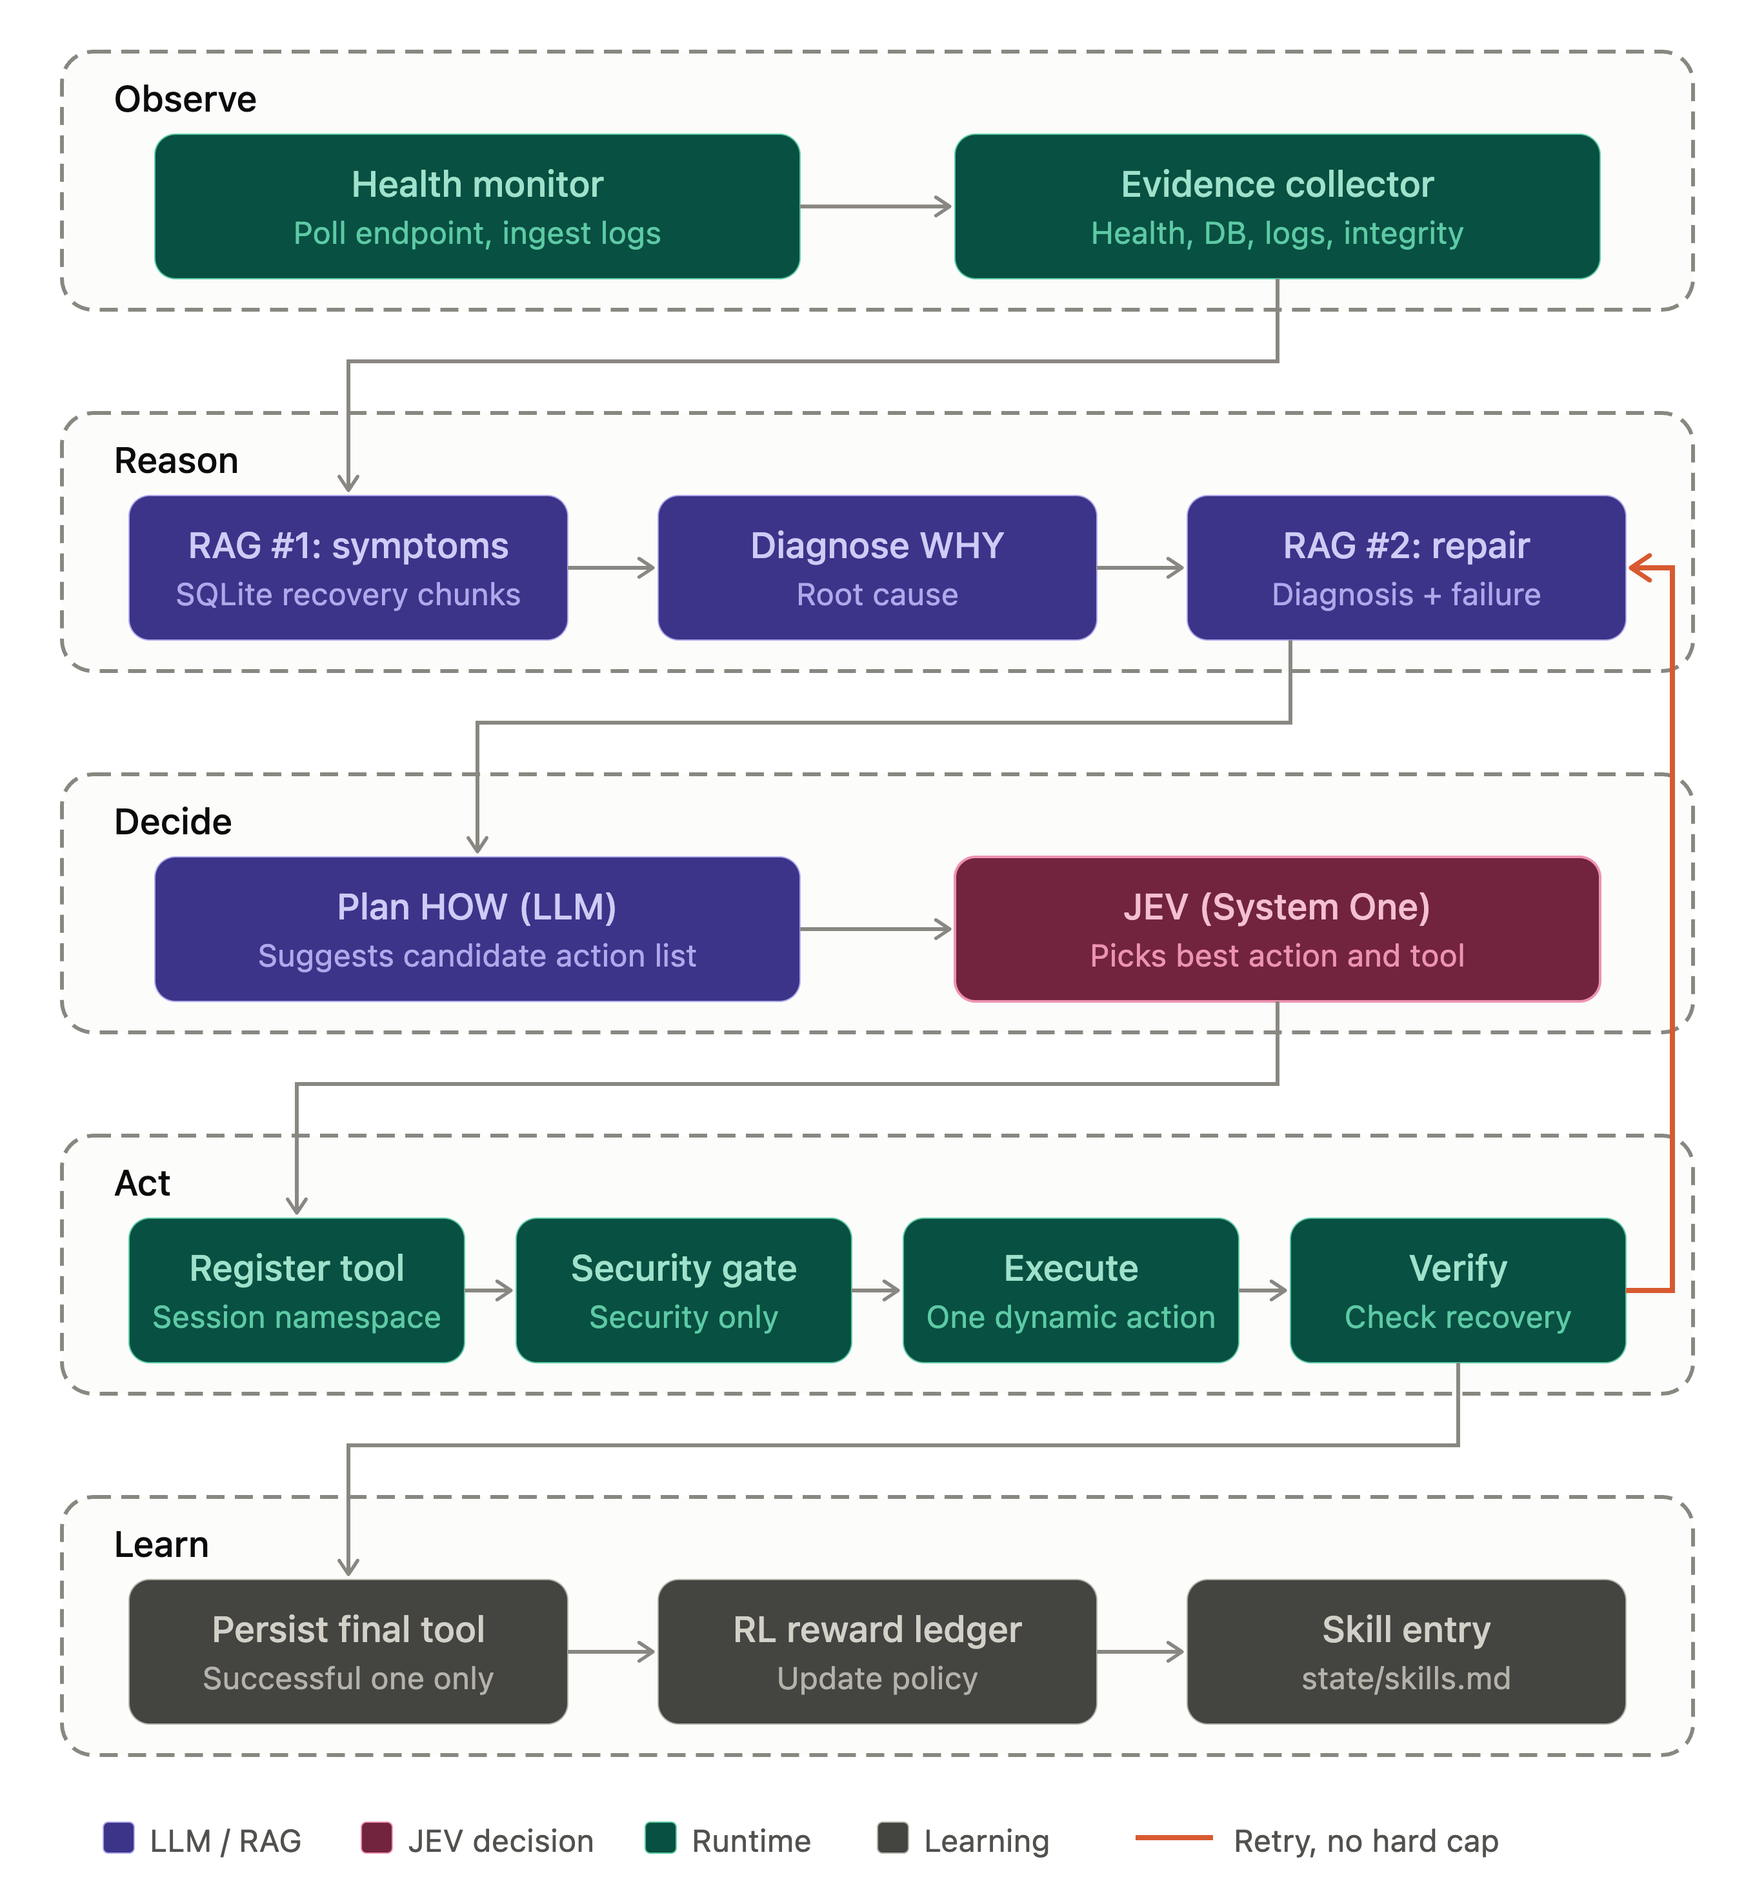
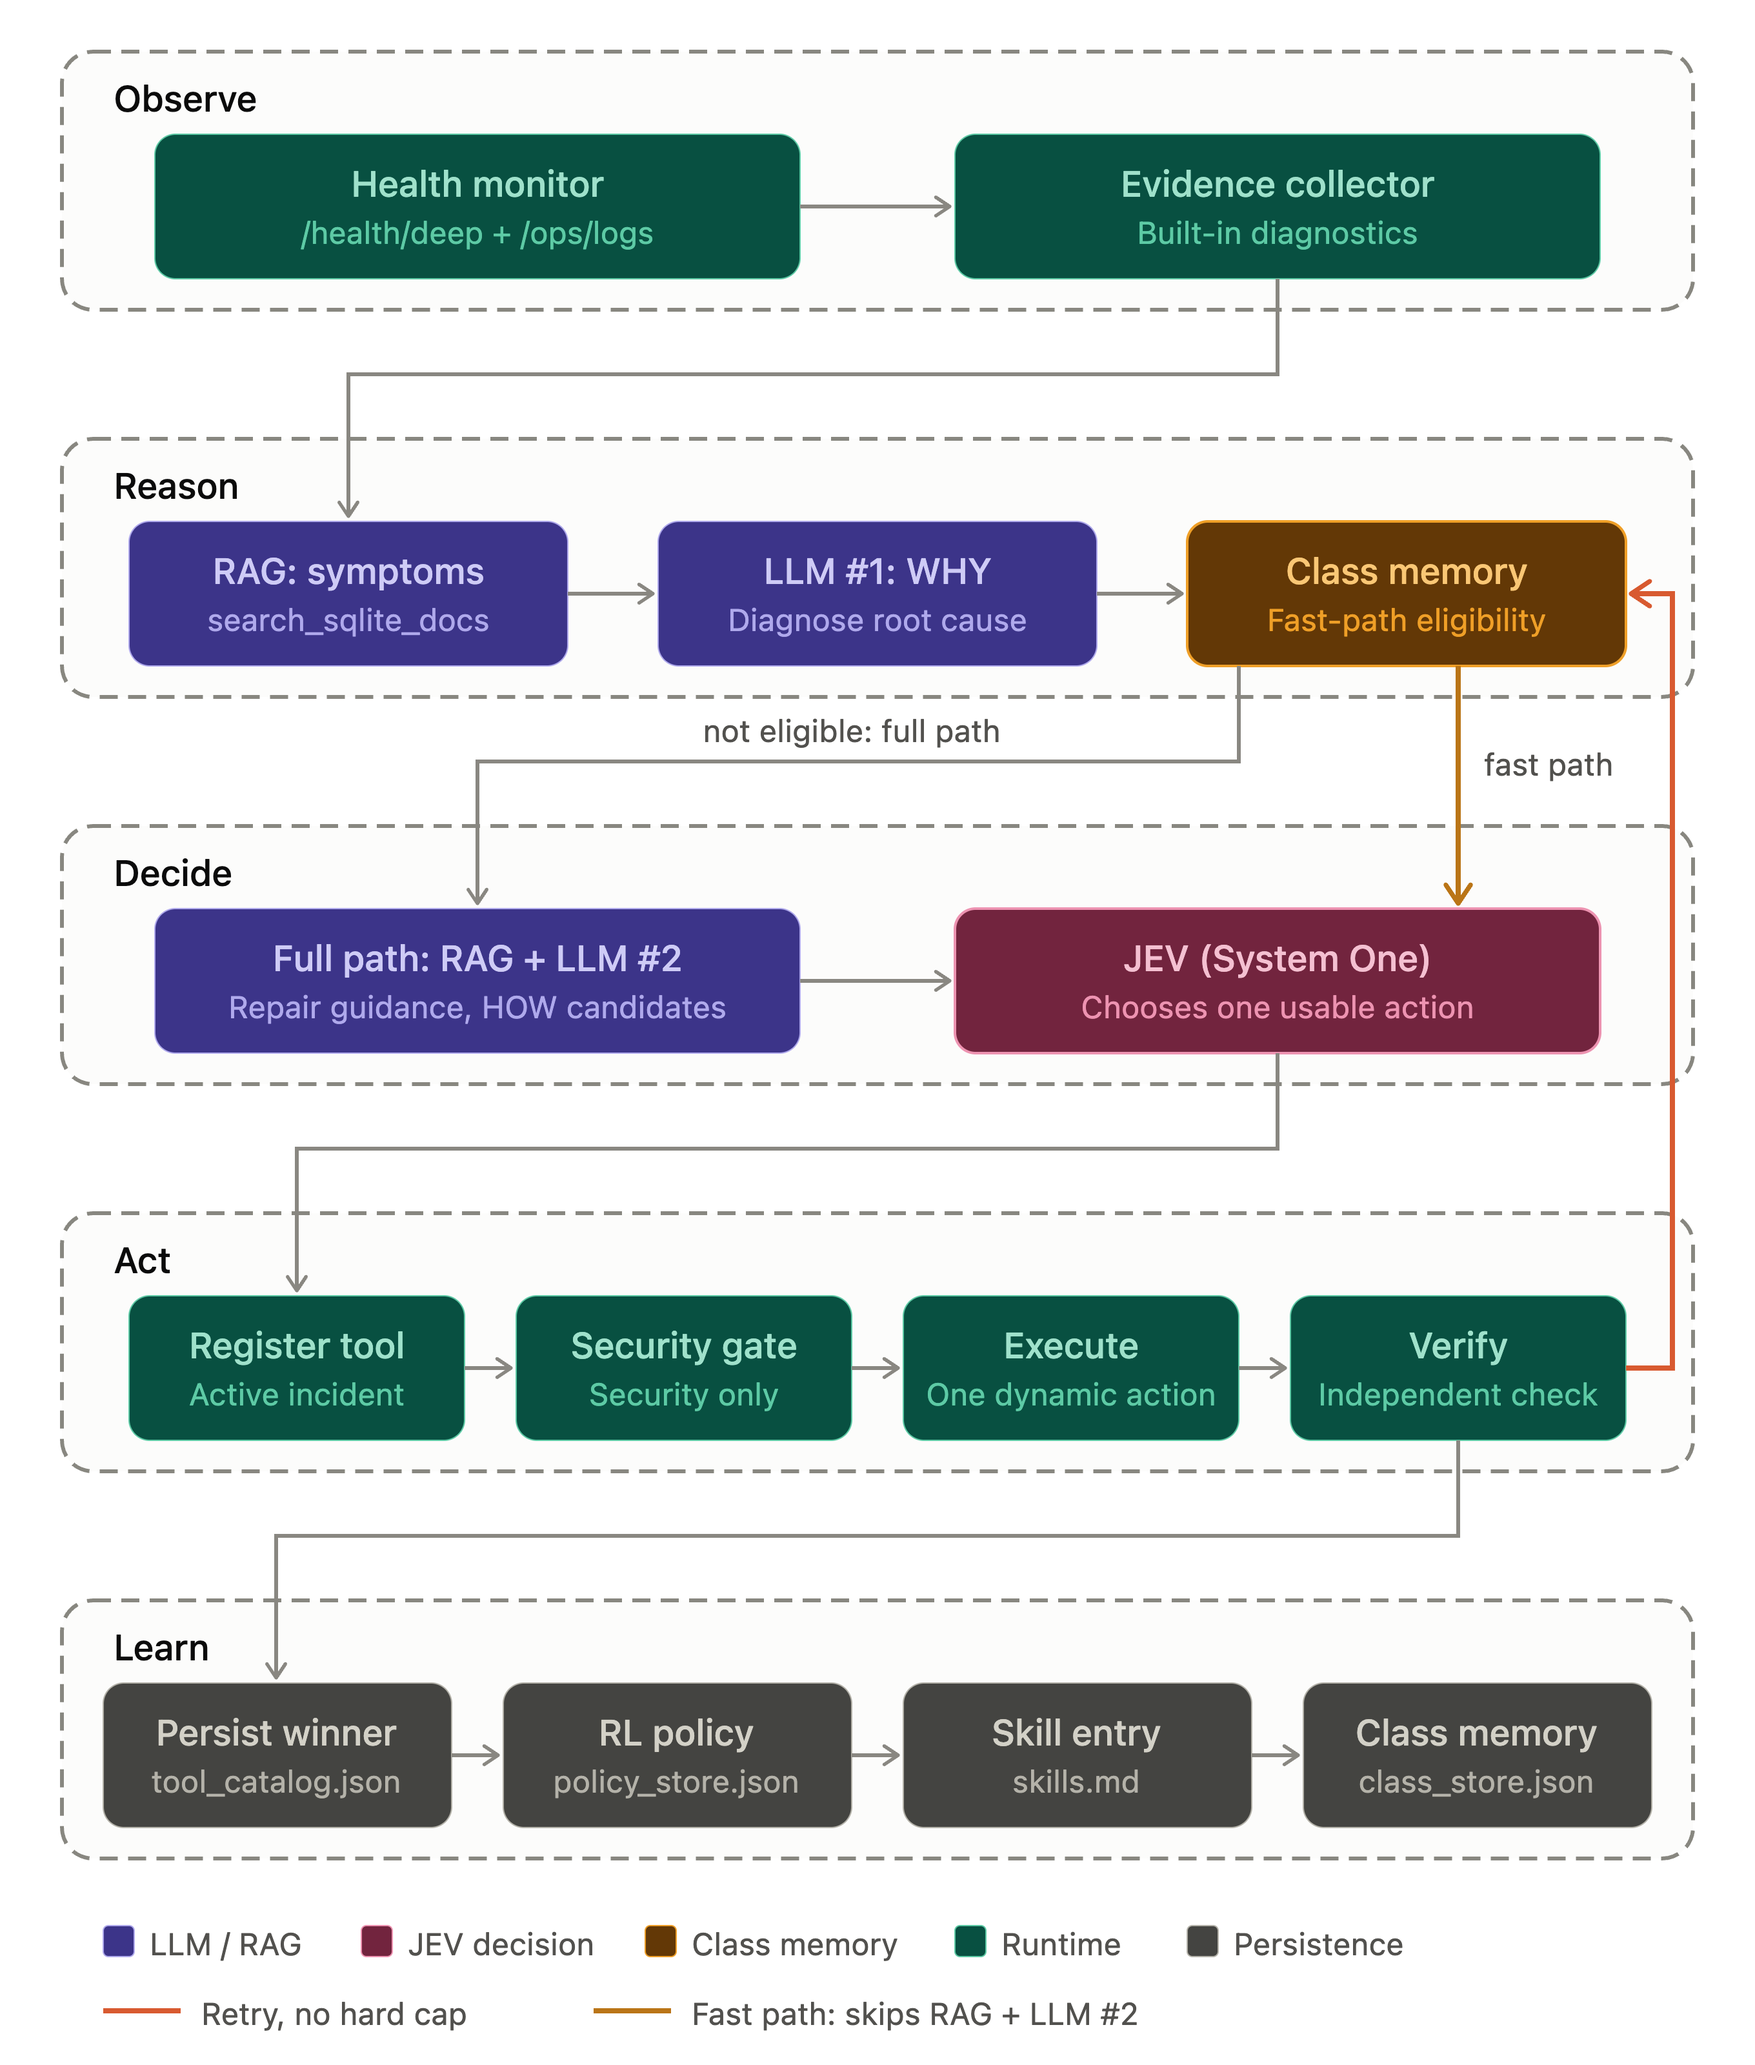
Update README and Architecture Diagram

diff --git a/README.md b/README.md
@@ -8,9 +8,9 @@ The runtime enforces a strict loop:
 2. Collect runtime evidence using built-in diagnostics.
 3. Run RAG symptom grounding (`search_sqlite_docs`).
 4. LLM call #1: diagnose **WHY**.
-5. Run RAG repair guidance with diagnosis context.
-6. LLM call #2: propose **HOW** candidate actions (`primary` + `alternatives[]`).
-7. JEV (System One): choose the best candidate action.
+5. Class-memory lookup (if enabled): score incident class + fast-path eligibility.
+6. If fast-path is not eligible, run RAG repair guidance + LLM call #2 (**HOW** candidates).
+7. JEV (System One): evaluate candidate actions and choose one usable action.
 8. Register the selected dynamic tool for the active incident.
 9. Security-only safety gate (schema/path/sandbox checks).
 10. Execute exactly one dynamic action.
@@ -19,6 +19,7 @@ The runtime enforces a strict loop:
 13. Persist only the winning dynamic tool to `state/tool_catalog.json`.
 14. Update RL policy rewards in `state/policy_store.json`.
 15. Append learned successful recovery skill to `state/skills.md`.
+16. Update class-memory store in `state/class_store.json` (if enabled).
 
 ## Architecture Diagram
 ![MI Architecture Diagram](docs/images/tim_mi_architecture.png)
@@ -27,6 +28,7 @@ The runtime enforces a strict loop:
 
 - No hard cap on retries/no-viable loops.
 - Dynamic recovery actions are session-first; built-ins are diagnostics-first.
+- Class-memory fast path does not bypass JEV, security gate, or verifier.
 - `request_backup_restore` remains available.
 - `restart_service` is optional fallback only.
 - Startup config gate requires OpenAI + JEV + Pinecone credentials.
@@ -87,7 +89,7 @@ Azure OpenAI example:
 - `MI_LLM_API_KEY_HEADER=api-key`
 - `MI_LLM_MODEL=<azure-deployment-name>`
 
-Jev decision layer (mandatory, inserted after HOW proposal to choose one candidate action):
+Jev decision layer (mandatory, used after candidate-set assembly to choose one action):
 
 - `MI_JEV_ENABLED=true`
 - `JEV_API_KEY=<same value used to start jev serve>`
@@ -95,6 +97,18 @@ Jev decision layer (mandatory, inserted after HOW proposal to choose one candida
 - `MI_JEV_USABLE_THRESHOLD=0.65`
 - `MI_JEV_BASE_URL=http://host.docker.internal:8017` (when running `mi-agent` in Docker)
 - `MI_JEV_BASE_URL=http://127.0.0.1:8017` (when running `mi-agent` on host)
+
+Class-memory / fast-path controls (optional, but required if you want warm incident reuse):
+
+- `MI_CLASSMEM_ENABLED=true`
+- `MI_CLASSMEM_FASTPATH_ENABLED=true`
+- `MI_CLASSMEM_DEDUPE_ENABLED=true`
+- `MI_CLASSMEM_STORE_PATH=/state/class_store.json`
+- `MI_CLASSMEM_JOIN_THRESHOLD=0.82`
+- `MI_CLASSMEM_MARGIN_DELTA=0.08`
+- `MI_CLASSMEM_TAU_CONF=0.80`
+- `MI_CLASSMEM_N_MIN=3`
+- `MI_CLASSMEM_COOLDOWN_SECONDS=30`
 
 For Pinecone RAG (mandatory):
 
